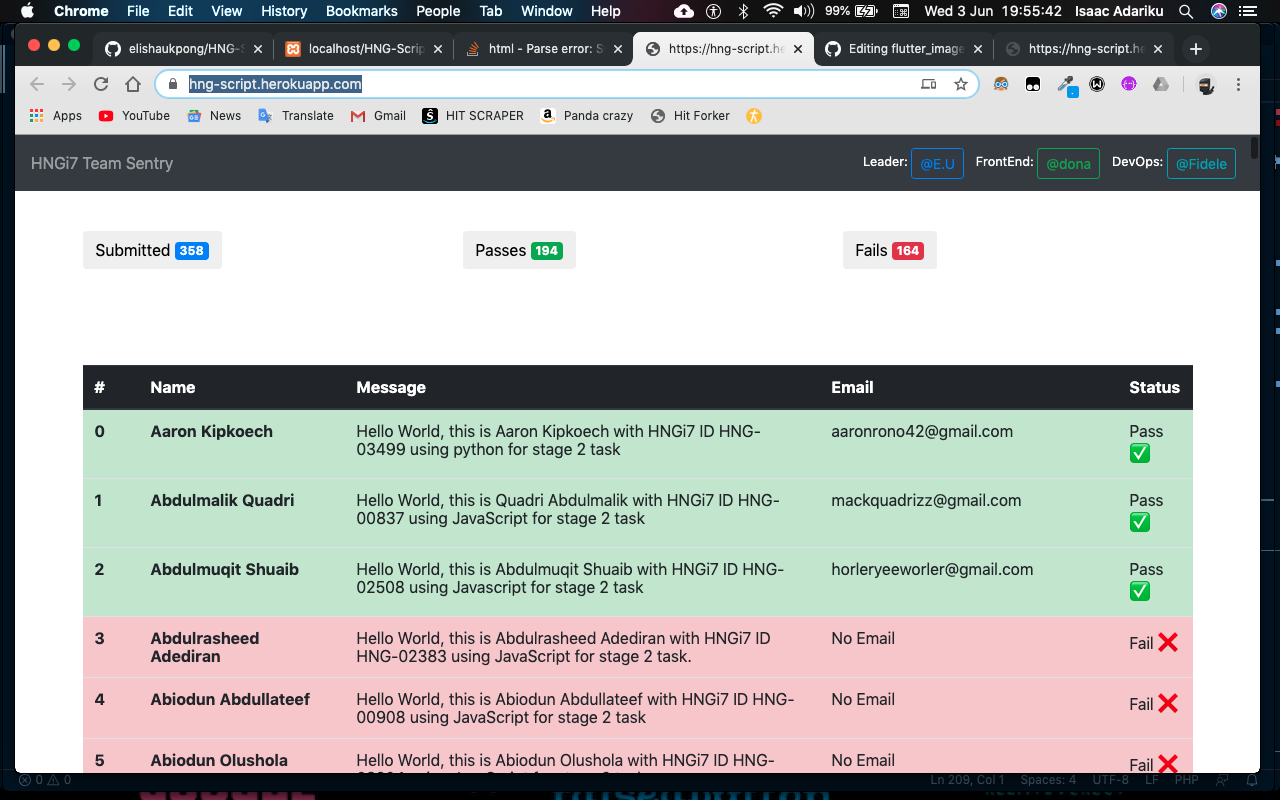
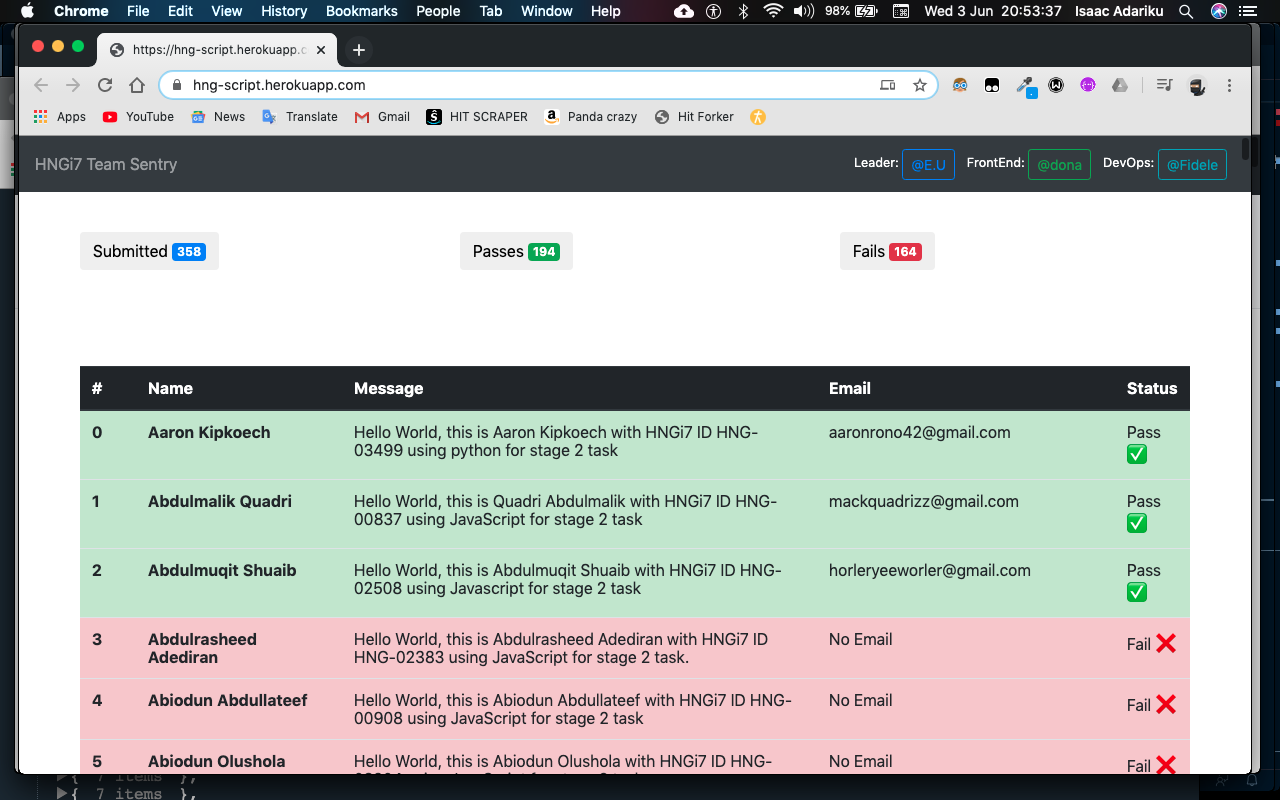
Rescale image

diff --git a/README.md b/README.md
@@ -30,10 +30,10 @@ This will show a list of all executed scripts and the status.
 
 **Demo Image**
 <p align="center">
-<img src="Demo-Images/htmlImage.png" height="800" width="1280"  alt="imageView Demo"/>
+<img src="Demo-Images/htmlImage.png" height="" width="1280"  alt="imageView Demo"/>
 </p>
 
-To get a JSON VERSION
+# To get a JSON VERSION
 
 ```yaml
 Add:
@@ -45,5 +45,5 @@ Example: localhost:8000/?json
 
 **Demo Json**
 <p align="center">
-<img src="Demo-Images/JsonImage.png" height="50%" width=70%"  alt="JsonView Demo"/>
+<img src="Demo-Images/JsonImage.png" height="800" width="1280"  alt="JsonView Demo"/>
 </p>
